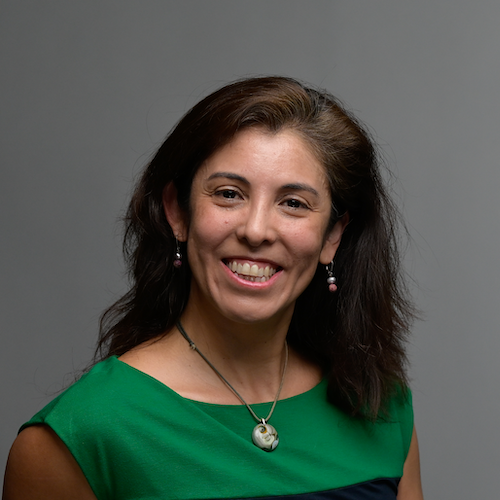
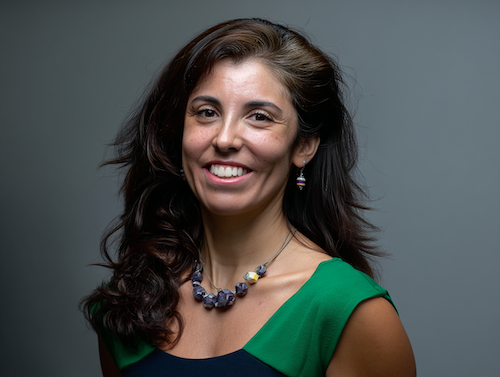
update biopic imgs

diff --git a/_includes/page__hero.html b/_includes/page__hero.html
@@ -18,28 +18,35 @@
   style="{% if page.header.overlay_color %}background-color: {{ page.header.overlay_color | default: 'transparent' }};{% endif %} {% if overlay_img_path %}background-image: {% if overlay_filter %}linear-gradient({{ overlay_filter }}, {{ overlay_filter }}), {% endif %}url('{{ overlay_img_path }}');{% endif %}"
 >
   {% if page.header.overlay_color or page.header.overlay_image %}
-    <div class="wrapper">
-      <h1 id="page-title" class="page__title" itemprop="headline">
-        {% if paginator and site.paginate_show_page_num %}
-          {{ site.title }}{% unless paginator.page == 1 %} {{ site.data.ui-text[site.locale].page | default: "Page" }} {{ paginator.page }}{% endunless %}
-        {% else %}
-          {{ page.title | default: site.title | markdownify | remove: "<p>" | remove: "</p>" }}
+    <div class="wrapper{% if page.header.profile_image %} wrapper--with-profile{% endif %}">
+      <div class="hero-content">
+        <h1 id="page-title" class="page__title" itemprop="headline">
+          {% if paginator and site.paginate_show_page_num %}
+            {{ site.title }}{% unless paginator.page == 1 %} {{ site.data.ui-text[site.locale].page | default: "Page" }} {{ paginator.page }}{% endunless %}
+          {% else %}
+            {{ page.title | default: site.title | markdownify | remove: "<p>" | remove: "</p>" }}
+          {% endif %}
+        </h1>
+        {% if page.tagline %}
+          <p class="page__lead">{{ page.tagline | markdownify | remove: "<p>" | remove: "</p>" }}</p>
+        {% elsif page.header.show_overlay_excerpt != false and page.excerpt %}
+          <p class="page__lead">{{ page.excerpt | markdownify | remove: "<p>" | remove: "</p>" }}</p>
         {% endif %}
-      </h1>
-      {% if page.tagline %}
-        <p class="page__lead">{{ page.tagline | markdownify | remove: "<p>" | remove: "</p>" }}</p>
-      {% elsif page.header.show_overlay_excerpt != false and page.excerpt %}
-        <p class="page__lead">{{ page.excerpt | markdownify | remove: "<p>" | remove: "</p>" }}</p>
-      {% endif %}
-      {% include post__meta.html %}
-      {% if page.header.cta_url %}
-        <p><a href="{{ page.header.cta_url | relative_url }}" class="btn btn--light-outline btn--large">{{ page.header.cta_label | default: site.data.ui-text[site.locale].more_label | default: "Learn More" }}</a></p>
-      {% endif %}
-      {% if page.header.actions %}
-        <p>
-        {% for action in page.header.actions %}
-          <a href="{{ action.url | relative_url }}" class="btn btn--light-outline btn--large">{{ action.label | default: site.data.ui-text[site.locale].more_label | default: "Learn More" }}</a>
-        {% endfor %}
+        {% include post__meta.html %}
+        {% if page.header.cta_url %}
+          <p><a href="{{ page.header.cta_url | relative_url }}" class="btn btn--light-outline btn--large">{{ page.header.cta_label | default: site.data.ui-text[site.locale].more_label | default: "Learn More" }}</a></p>
+        {% endif %}
+        {% if page.header.actions %}
+          <p>
+          {% for action in page.header.actions %}
+            <a href="{{ action.url | relative_url }}" class="btn btn--light-outline btn--large">{{ action.label | default: site.data.ui-text[site.locale].more_label | default: "Learn More" }}</a>
+          {% endfor %}
+        {% endif %}
+      </div>
+      {% if page.header.profile_image %}
+        <div class="hero-profile">
+          <img src="{{ page.header.profile_image | relative_url }}" alt="{{ page.title }}" class="hero-profile__image">
+        </div>
       {% endif %}
     </div>
   {% else %}

diff --git a/_sass/_custom.scss b/_sass/_custom.scss
@@ -618,7 +618,7 @@ h1, h2, h3, h4, h5, h6{
 /* 1) Make the footer itself paint the full-bleed bar */
 .page__footer{
   --strap: #3d6c67; /* brand strap */
-  background: #0f172a;
+  background: #2c3e50;
   border-top: 6px solid var(--strap);
 }
 
@@ -796,6 +796,30 @@ h1, h2, h3, h4, h5, h6{
   /* Add bottom padding to hero wrapper so caption doesn't overlap buttons */
   .home.layout--splash .page__hero--overlay .wrapper{
     padding-bottom: 2rem;  /* space for the absolutely-positioned caption */
+  }
+}
+
+/* Left-aligned CTA buttons below the excerpt */
+.page__hero--overlay .hero-ctas--centered{
+  margin: 1.25rem 0 0;
+  display: flex;
+  gap: .75rem;
+  justify-content: flex-start;
+  flex-wrap: wrap;
+}
+
+/* On mobile, stack buttons for better touch targets */
+@media (max-width: 600px){
+  .page__hero--overlay .hero-ctas--centered{
+    flex-direction: column;
+    align-items: center;
+    gap: .6rem;
+  }
+
+  .page__hero--overlay .hero-ctas--centered .hero-btn{
+    width: 100%;
+    max-width: 240px;
+    text-align: center;
   }
 }
 
@@ -1203,4 +1227,63 @@ h1, h2, h3, h4, h5, h6{
 .journey-page .lens h4 {
   font-size: 1.1rem;
   margin: 0 0 0.75rem;
+}
+
+/* ------------------------------------------------------------------
+   Hero Profile Image
+   ------------------------------------------------------------------ */
+
+/* When profile image is present, make wrapper flexbox */
+.page__hero--overlay .wrapper--with-profile {
+  display: flex;
+  align-items: center;
+  justify-content: space-between;
+  gap: 2rem;
+  flex-wrap: wrap;
+}
+
+/* Content area (title, excerpt, buttons) */
+.page__hero--overlay .hero-content {
+  flex: 1 1 300px;
+  min-width: 0; /* prevent flex item overflow */
+}
+
+/* Profile image container */
+.page__hero--overlay .hero-profile {
+  flex: 0 0 auto;
+}
+
+/* The circular image itself */
+.page__hero--overlay .hero-profile__image {
+  width: 160px;
+  height: 160px;
+  border-radius: 50%;
+  object-fit: cover;
+  display: block;
+  box-shadow: 0 4px 12px rgba(0, 0, 0, 0.15);
+  transition: transform 0.3s ease, box-shadow 0.3s ease;
+}
+
+.page__hero--overlay .hero-profile__image:hover {
+  transform: scale(1.05);
+  box-shadow: 0 6px 20px rgba(0, 0, 0, 0.2);
+}
+
+/* Mobile: stack vertically, center image */
+@media (max-width: 768px) {
+  .page__hero--overlay .wrapper--with-profile {
+    flex-direction: column;
+    align-items: center;
+    text-align: center;
+  }
+
+  .page__hero--overlay .hero-profile {
+    order: -1; /* move image to top on mobile */
+    margin-bottom: 1rem;
+  }
+
+  .page__hero--overlay .hero-profile__image {
+    width: 140px;
+    height: 140px;
+  }
 }

diff --git a/assets/css/main.scss b/assets/css/main.scss
@@ -26,11 +26,11 @@ sitemap: false
 
 /* Force gradient background on hero */
 .page__hero--overlay {
-  background: linear-gradient(135deg, #1e293b 0%, #334155 100%) !important;
+  background: linear-gradient(135deg, #2c3e50 0%, #3d4f61 100%) !important;
   background-color: transparent !important;
 }
 
 /* Target the overlay specifically */
 .page__hero--overlay::before {
-  background: linear-gradient(135deg, #1e293b 0%, #334155 100%) !important;
+  background: linear-gradient(135deg, #2c3e50 0%, #3d4f61 100%) !important;
 }

diff --git a/index.md b/index.md
@@ -10,15 +10,16 @@ author_profile: false
 excerpt: >
   Making meaning out of messy data. I apply cognitive science to build AI and data systems that work the way humans think.
 
-  <p class="hero-ctas hero-ctas--pinned">
+  <p class="hero-ctas hero-ctas--centered">
   <a class="btn hero-btn hero-btn--primary" href="/my-journey/">My Journey&nbsp; <i class="fas fa-shoe-prints"></i></a>
   <a class="btn hero-btn hero-btn--ghost" href="/contact/"> Get in Touch&nbsp;<i class="fas fa-paper-plane"></i></a>
   </p>
 
 header:
   overlay_filter: 0.7;
-  overlay_color: "#1e3a5f"
+  overlay_color: "#4a3a5f"
   caption: Austin, TX · Data Scientist · PhD Cognitive Science, MIT · Human-Centered AI · Explainable Systems
+  profile_image: /assets/images/biopic/bhs-new-headshot-v1.png
 
 # Updated project descriptions with cognitive angles
 feature_row:
